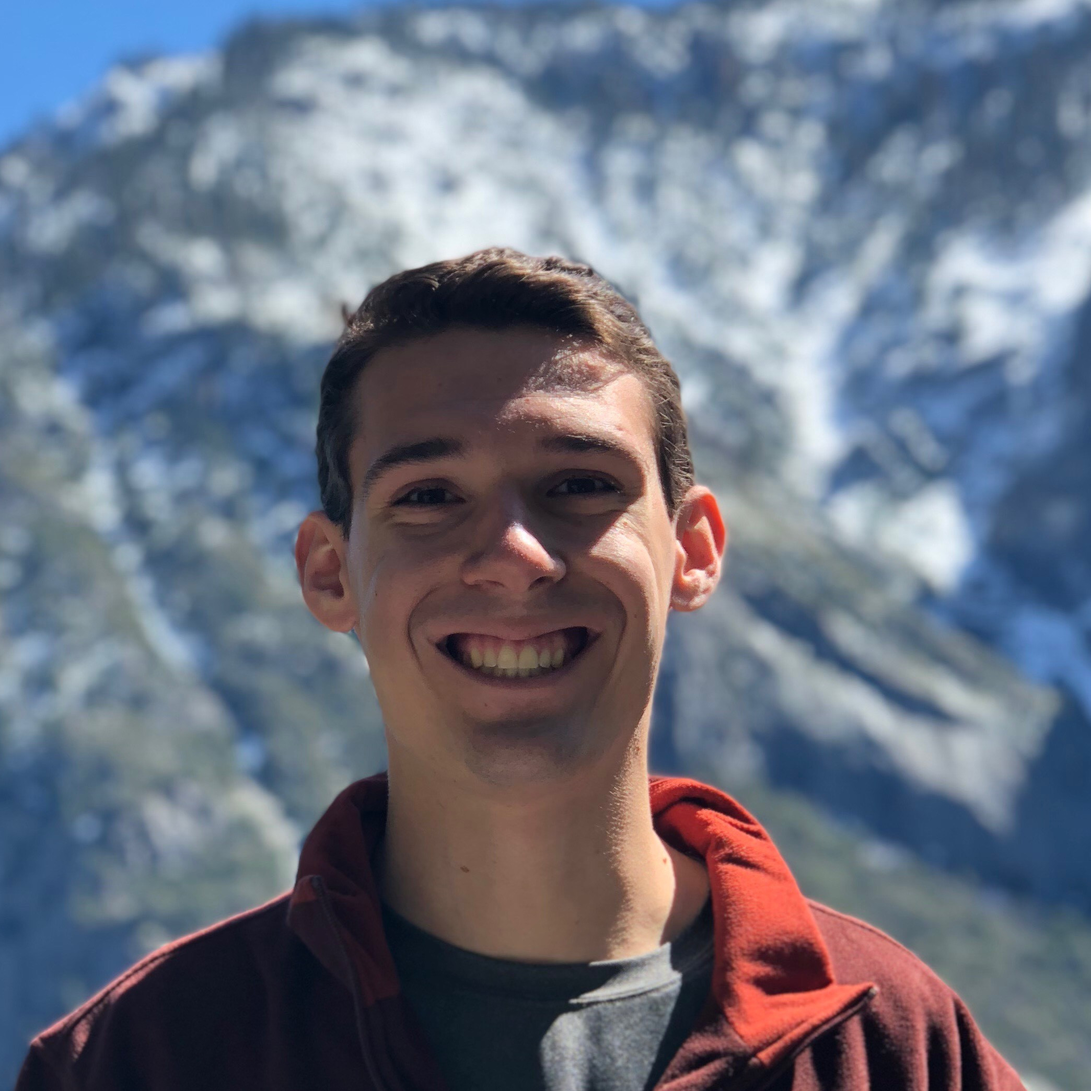
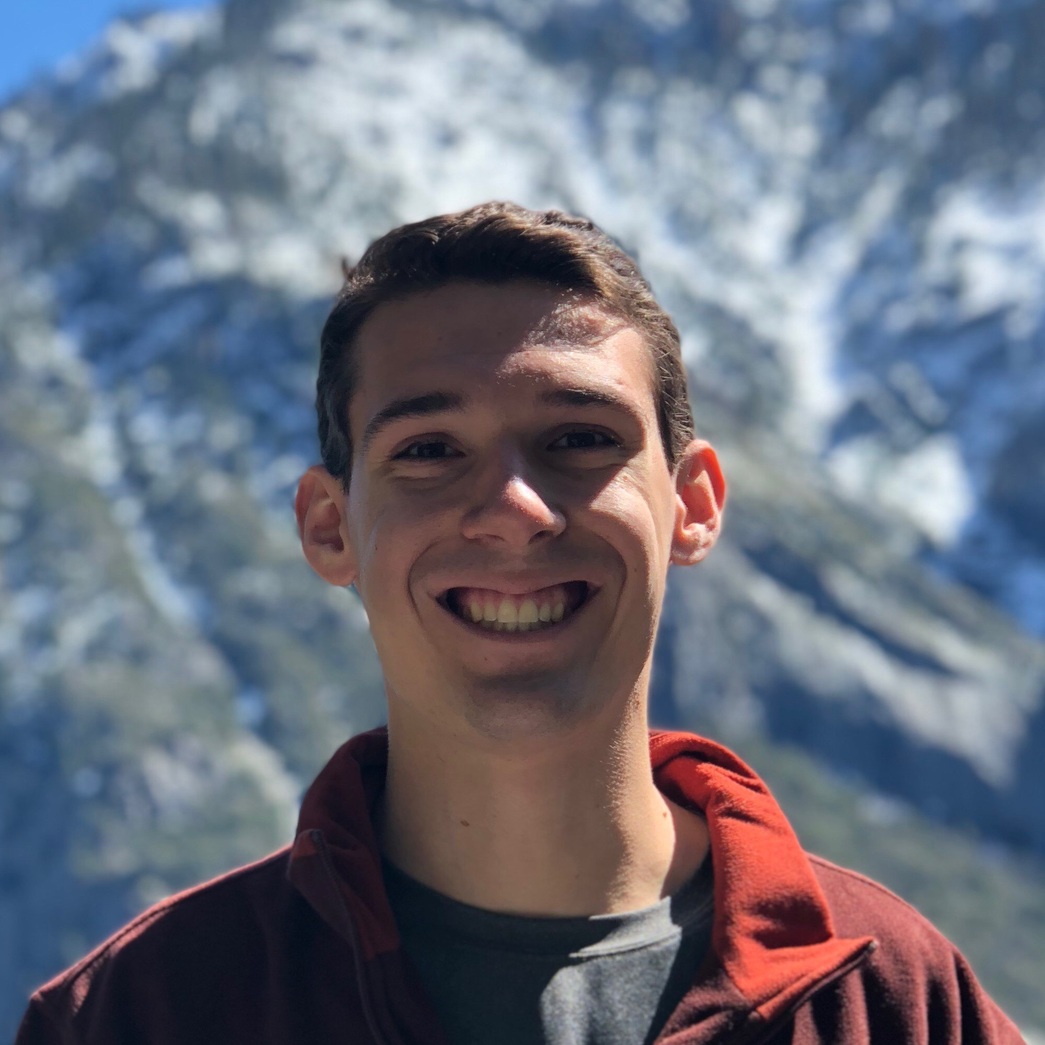
filled out experience, simplified media queries, fixed min issue in projects, added headshot swap when shrinking

diff --git a/html/aboutme.html b/html/aboutme.html
@@ -23,7 +23,7 @@
 		<nav class="navbar navbar-default navbar-fixed-top">
 			<div class="container-fluid">
 				<div class="navbar-header">
-					<a href="home.html"><img src="../res/icons/logo.PNG" id="logo"><span id="headerName" class="blue"> Nick Cerdan </span></a>
+					<a href="index.html"><img src="../res/icons/logo.PNG" id="logo"><span id="headerName" class="blue"> Nick Cerdan </span></a>
 					<button type="button" data-target=".navbar-collapse" data-toggle="collapse" class="navbar-toggle collapsed">
         	            <span class="sr-only">Toggle navigation</span>
             	        <span class="icon-bar"></span>
@@ -52,7 +52,10 @@
 			<div class="col-lg-1"></div>
 			<div class="col-lg-4">
 				<div id="headshotDiv">
-					<div><img src="../res/headshots/headshot.jpeg" id="headshot"></div>
+					<div>
+						<img id="headshot1" class="headshot" src="../res/headshots/headshot.jpeg" >
+						<img id="headshot2" class="headshot" src="../res/headshots/headshot-cropped.jpeg" >
+					</div>
 					<a id="resume" href="../documents/resume.pdf" target="_blank">
 						<span class="icon-padding-right blue fa fa-file-text-o fa-2x"></span>Resume
 					</a>
@@ -64,13 +67,13 @@
 				<div id="aboutInfoDiv" class="major-cont">
 					<h1>A little bit about me<span class="blue">...</span></h1>
 					<p></p>
-					<h5 class="noMargin">I'm a second year CSE major at UCLA, originating from the Bay Area.</h5>
-					<h2 class="noMargin blue">--</h2>
-					<h5 class="noMargin">I have been very interested in computers and their design since I was a little kid, and that passion has only grown now that I have become more and more involved in the world of computing. I love the position I get to be in at this age because there are so many different avenues of knowledge that I'm both interested in, and now capable of persuing. </h5>
-					<h2 class="noMargin blue">--</h2>
-					<h5 class="noMargin">I have found that many of my colleagues are already trying to focus on one specific aspect of computer science, but, as of right now, I cannot say which application of computing I would like to focus on because I think there are too many different faccets left unexplored. Instead, I'm trying to expose myself to as much information as possible so I can continue to develop my personal skills, and my overall knowledge. </h5>
-					<h2 class="noMargin blue">--</h2>
-					<h5>When I'm away from computers, I still like to stay busy. I enjoy staying physcially active through rock climbing, working out, and playing sports. I love exploring the outdoors through activities like SCUBA diving, hiking, and camping. I also enjoy expressing myself through playing acoustic guitar.</h5>
+					<p class="noMargin">I'm a second year CSE major at UCLA, originating from the Bay Area.</p>
+					<h3 class="noMargin blue">--</h3>
+					<p class="noMargin">I have been very interested in computers and their design since I was a little kid, and that passion has only grown now that I have become more and more involved in the world of computing. I love the position I get to be in at this age because there are so many different avenues of knowledge that I'm both interested in, and now capable of persuing. </p>
+					<h3 class="noMargin blue">--</h3>
+					<p class="noMargin">I have found that many of my colleagues are already trying to focus on one specific aspect of computer science, but, as of right now, I cannot say which application of computing I would like to focus on because I think there are too many different faccets left unexplored. Instead, I'm trying to expose myself to as much information as possible so I can continue to develop my personal skills, and my overall knowledge. </p>
+					<h3 class="noMargin blue">--</h3>
+					<p>When I'm away from computers, I still like to stay busy. I enjoy staying physcially active through rock climbing, working out, and playing sports. I love exploring the outdoors through activities like SCUBA diving, hiking, and camping. I also enjoy expressing myself through playing acoustic guitar.</p>
 				</div>
 			</div>
 		</div>		

diff --git a/html/work.html b/html/work.html
@@ -23,7 +23,7 @@
 		<nav class="navbar navbar-default navbar-fixed-top">
 			<div class="container-fluid">
 				<div class="navbar-header">
-					<a href="home.html"><img src="../res/icons/logo.PNG" id="logo"><span id="headerName" class="blue"> Nick Cerdan </span></a>
+					<a href="index.html"><img src="../res/icons/logo.PNG" id="logo"><span id="headerName" class="blue"> Nick Cerdan </span></a>
 					<button type="button" data-target=".navbar-collapse" data-toggle="collapse" class="navbar-toggle collapsed">
         	            <span class="sr-only">Toggle navigation</span>
             	        <span class="icon-bar"></span>
@@ -65,7 +65,11 @@
 										<h5><span class="icon-padding-right fa fa-calendar"></span>June '18 - Sept. '18</h5>
 									</div>
 									<div class="col-lg-8">
-										<p>Lorem ipsum dolor sit amet, consectetur adipiscing elit. Nunc porttitor enim et efficitur aliquet. Donec vitae tortor lacinia, vulputate leo eu, pharetra justo. Donec ac dolor condimentum, sagittis ante vitae, volutpat dui. Pellentesque commodo quam id scelerisque ultricies.</p>
+										<ul>
+											<li class="work-bullet">Supported 700? customers by managing their access lists for App Annie’s intelligence suite and by helping clients with product-related issues.</li>
+											<li class="work-bullet">Used HTML/CSS to create and QA over 30 Knowledge Base articles.</li>
+											<li class="work-bullet">Participated in face-to-face, and international virtual meetings to provide a status update to my team members.</li>
+										</ul>
 									</div>
 								</div>
 								<h4 class="title">Support Engineer Intern I</h4>
@@ -75,7 +79,11 @@
 										<h5><span class="icon-padding-right fa fa-calendar"></span>Aug. '17 - Sept. '17</h5>
 									</div>
 									<div class="col-lg-8">
-										<p>Lorem ipsum dolor sit amet, consectetur adipiscing elit. Nunc porttitor enim et efficitur aliquet. Donec vitae tortor lacinia, vulputate leo eu, pharetra justo. Donec ac dolor condimentum, sagittis ante vitae, volutpat dui. Pellentesque commodo quam id scelerisque ultricies.</p>
+										<ul>
+											<li class="work-bullet">Provided 1300 customers support by using client information to give them access to App Annie’s intelligence suite.</li>
+											<li class="work-bullet">Learned to use Salesforce, Zendesk, and the basics of SQL and APIs.</li>
+											<li class="work-bullet">Participated in face-to-face, and international virtual meetings to provide a status update to my team members.</li>
+										</ul>
 									</div>
 								</div>
 							</div>
@@ -94,7 +102,10 @@
 										<h5><span class="icon-padding-right fa fa-calendar"></span>May '18 - Present</h5>
 									</div>
 									<div class="col-lg-8">
-										<p>Lorem ipsum dolor sit amet, consectetur adipiscing elit. Nunc porttitor enim et efficitur aliquet. Donec vitae tortor lacinia, vulputate leo eu, pharetra justo. Donec ac dolor condimentum, sagittis ante vitae, volutpat dui. Pellentesque commodo quam id scelerisque ultricies.</p>
+										<ul>
+											<li class="work-bullet">Mentored a small group of incoming freshmen engineering students.</li>
+											<li class="work-bullet">Organized group events to construct a support system for these new students to rely on.</li>
+										</ul>
 									</div>
 								</div>
 							</div>

diff --git a/css/style.css b/css/style.css
@@ -18,6 +18,7 @@ ul {
 	margin: 0px;
 	padding: 0px;
 	text-decoration: none;
+	list-style-type: none;
 }
 
 .container-fluid {
@@ -168,11 +169,16 @@ nav li:hover {
 	padding-top: 20px;			/*change to vertically middle */
 }
 
-#headshot {
+.headshot {
 	width: 80%;
+	min-width: 160px;
 	border-radius: 50%;
 	border: #0080ff solid 8px;
-	margin-bottom: 10px;
+	margin-bottom: 2%;
+}
+
+#headshot2 {
+	display: none;
 }
 
 #resume {
@@ -228,6 +234,10 @@ nav li:hover {
 	background-image: url('../res/background/work.jpg');
 }
 
+.work-bullet {
+	margin-bottom: 10px;
+}
+
 
 
 /*///////////////////////////////////////////////////////////////////////// PROJECTS */
@@ -244,6 +254,7 @@ nav li:hover {
 	position: relative;
 	border-radius: 7px;
 	border: solid #ffffff 3px;
+	min-width: 243px;
 }
 
 .project.hovered {
@@ -365,15 +376,23 @@ nav li:hover {
 		padding-bottom: 25px;		
 		min-width: 0px !important;
 	}
+/* ABOUT ME */
+	#resume {
+		font-size: 1.4em;
+	}
 
-	#homeInfo {
-		
+	#headshot1 {
+		display: none;
+	}
+
+	#headshot2 {
+		display: inline;
 	}
 }
 
 @media (max-width: 1200px) { /* xs, sm, md properties */
 /* ABOUT ME */
-	#headshot {
+	.headshot {
 		width: 25%;
 		border: #0080ff solid 4px;
 	}
@@ -402,12 +421,5 @@ nav li:hover {
 
 	#slogan li {
 		padding-bottom: 10px;		
-	}
-}
-
-@media (max-width: 1250px) and (min-width: 1200px) { /* custom for about */
-/* ABOUT ME */
-	#headshot {
-		width: 100%;
 	}
 }

diff --git a/html/skills.html b/html/skills.html
@@ -23,7 +23,7 @@
 		<nav class="navbar navbar-default navbar-fixed-top">
 			<div class="container-fluid">
 				<div class="navbar-header">
-					<a href="home.html"><img src="../res/icons/logo.PNG" id="logo"><span id="headerName" class="blue"> Nick Cerdan </span></a>
+					<a href="index.html"><img src="../res/icons/logo.PNG" id="logo"><span id="headerName" class="blue"> Nick Cerdan </span></a>
 					<button type="button" data-target=".navbar-collapse" data-toggle="collapse" class="navbar-toggle collapsed">
         	            <span class="sr-only">Toggle navigation</span>
             	        <span class="icon-bar"></span>
@@ -49,7 +49,7 @@
 <!-- THE REST -->
 	<div id="skillsBack" class="container-fluid backgroundImg">
 		<div class="row">
-			<div class="col-md-2 col-xs-1"></div>
+			<div class="col-xs-1"></div>
 			<div class="col-md-8 col-xs-10">
 				<div class="container-fluid major-cont">
 					<div class="row">

diff --git a/html/contactme.html b/html/contactme.html
@@ -23,7 +23,7 @@
 		<nav class="navbar navbar-default navbar-fixed-top">
 			<div class="container-fluid">
 				<div class="navbar-header">
-					<a href="home.html"><img src="../res/icons/logo.PNG" id="logo"><span id="headerName" class="blue"> Nick Cerdan </span></a>
+					<a href="index.html"><img src="../res/icons/logo.PNG" id="logo"><span id="headerName" class="blue"> Nick Cerdan </span></a>
 					<button type="button" data-target=".navbar-collapse" data-toggle="collapse" class="navbar-toggle collapsed">
         	            <span class="sr-only">Toggle navigation</span>
             	        <span class="icon-bar"></span>

diff --git a/html/education.html b/html/education.html
@@ -23,7 +23,7 @@
 		<nav class="navbar navbar-default navbar-fixed-top">
 			<div class="container-fluid">
 				<div class="navbar-header">
-					<a href="home.html"><img src="../res/icons/logo.PNG" id="logo"><span id="headerName" class="blue"> Nick Cerdan </span></a>
+					<a href="index.html"><img src="../res/icons/logo.PNG" id="logo"><span id="headerName" class="blue"> Nick Cerdan </span></a>
 					<button type="button" data-target=".navbar-collapse" data-toggle="collapse" class="navbar-toggle collapsed">
         	            <span class="sr-only">Toggle navigation</span>
             	        <span class="icon-bar"></span>

diff --git a/html/index.html b/html/index.html
@@ -21,7 +21,7 @@
 		<nav class="navbar navbar-default navbar-fixed-top">
 			<div class="container-fluid">
 				<div class="navbar-header">
-					<a href="home.html"><img src="../res/icons/logo.PNG" id="logo"><span id="headerName" class="blue"> Nick Cerdan </span></a>
+					<a href="index.html"><img src="../res/icons/logo.PNG" id="logo"><span id="headerName" class="blue"> Nick Cerdan </span></a>
 					<button type="button" data-target=".navbar-collapse" data-toggle="collapse" class="navbar-toggle collapsed">
         	            <span class="sr-only">Toggle navigation</span>
             	        <span class="icon-bar"></span>

diff --git a/html/projects.html b/html/projects.html
@@ -23,7 +23,7 @@
 		<nav class="navbar navbar-default navbar-fixed-top">
 			<div class="container-fluid">
 				<div class="navbar-header">
-					<a href="home.html"><img src="../res/icons/logo.PNG" id="logo"><span id="headerName" class="blue"> Nick Cerdan </span></a>
+					<a href="index.html"><img src="../res/icons/logo.PNG" id="logo"><span id="headerName" class="blue"> Nick Cerdan </span></a>
 					<button type="button" data-target=".navbar-collapse" data-toggle="collapse" class="navbar-toggle collapsed">
         	            <span class="sr-only">Toggle navigation</span>
             	        <span class="icon-bar"></span>
